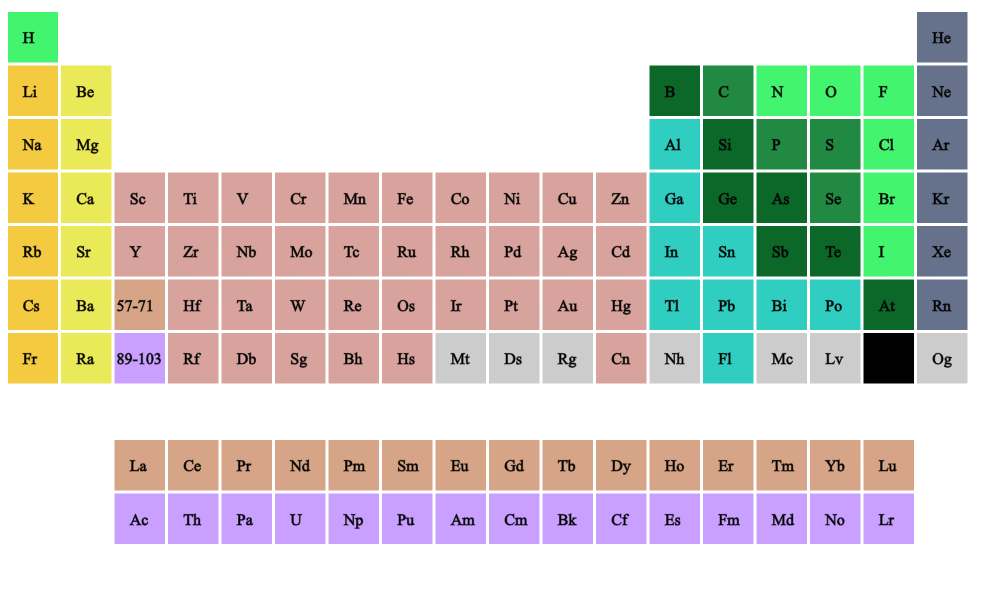
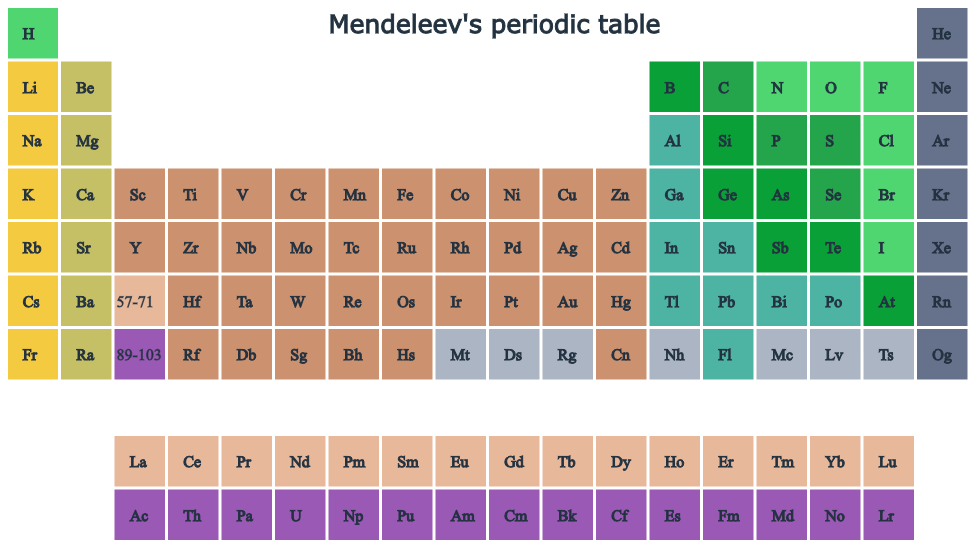
periodic table update

diff --git a/periodic-table/index.html b/periodic-table/index.html
@@ -1,7 +1,8 @@
 <!DOCTYPE html>
 <html>
 <head>
-	<title></title>
+	<title>Periodic table</title>
+  <meta charset="utf-8">
 	<style type="text/css">
 
 		body{
@@ -77,13 +78,15 @@
 
 .modal-body {
   background: #ECEFF1;
-  padding: 60px 40px;
+  padding: 40px 40px;
 }
 
 /* Close Button */
 .close-modal {
-  text-align: right;
   cursor: pointer;
+  display: inline-block;
+  float: right;
+  padding: 5px;
 }
 
 /* Animation */
@@ -108,7 +111,22 @@
     opacity: 1;
   }
 }
+.summary{
+  font-family: Helvetica Neue, Helvetica, Arial, sans-serif;;
+  margin-bottom: 5px;
+}
+.element-name {
+  text-decoration: none;
+}
+.element-name:hover{
+  text-decoration: underline;
+  }
+  .label{
+    font-weight: bold;
+  }
 	</style>
+
+
 </head>
 <body>
 	<div class="tableContainer">
@@ -123,7 +141,29 @@
       <h1></h1>
     </div>
     <div class="modal-body">
-      
+        <div class="summary">
+          <a class="element-name" target="_blank"></a>
+          <span class="summary-body"></span>
+        </div>
+        <div>
+          <label class="label">Atomic number: </label><span class="number"></span>
+        </div>
+        <div>
+          <label class="label">Atomic mass: </label><span class="mass"></span>
+        </div>
+        <div>
+          <label class="label">Element category: </label><span class="category"></span>
+        </div>
+        
+        <div>
+          <label class="label">Phase: </label><span class="phase"></span>
+        </div>
+        <div>
+          <label class="label">Density: </label><span class="density"></span>
+        </div>
+        <div>
+          <label class="label">Discovered by: </label><span class="discovered_by"></span>
+        </div>
     </div>
   </div>
 </div>
@@ -150,14 +190,14 @@
                   "polyatomic nonmetal": "#24a54c",
                   "post-transition metal": "#4DB3A2",
                   "transition metal": "#cc916e", 
-                  "lanthanide": "#efcdb8",
+                  "lanthanide": "#e8b89b",
                   "actinide":"#9B59B6",
                   "unknown, probably transition metal": "#ACB5C3",
                   "unknown, probably post transition metal": "#ACB5C3",
                   "unknown, probably metalloid": "#ACB5C3",
                   "unknown, predicted to be noble gas": "#66728c"
      };
-
+     var textColor = "#22313F";
 var getPositionX = function(xpos){
   var x = (xpos - 1) * (elementWidth + columnMargin);
   return x;
@@ -191,6 +231,28 @@ d3.json(dataUrl, function(error, json) {
           modal.select(".modal-header").style("background-color", colors[d["category"]]).select("h1")
                 .text(d["symbol"]);
 
+          var body = modal.select(".modal-body");
+          var indexOfHari = d.summary.indexOf(" ");
+          var firstWordOfSummary = d.summary.substr(0, indexOfHari);
+
+          var summary = body.select("div.summary")
+
+          summary.select("a.element-name")
+                 .attr("href", d.source)
+                 .style("color", colors[d["category"]])
+                 .style("font-weight", "bold")
+                 .text(firstWordOfSummary);
+
+          summary.select("span.summary-body").text(d.summary.substr(indexOfHari + 1, d.summary.length));
+
+          body.select("span.mass").text(d.atomic_mass);
+          body.selectAll(".label").style("color", colors[d["category"]]);
+
+          body.select("span.category").text(d.category);
+          body.select("span.discovered_by").text(d.discovered_by);
+          body.select("span.number").text(d.number);
+          body.select("span.phase").text(d.phase);
+          body.select("span.density").text(d.density + " g/cm^3");
           modal.style("display", "block");
 
        });
@@ -202,7 +264,13 @@ d3.json(dataUrl, function(error, json) {
     .text(d => {return d["symbol"];})
     .attr("x", d => {return getPositionX(d["xpos"]) + elementWidth / 2 - 10;})
     .attr("y", d => {return getPositionY(d["ypos"]) + elementHeight / 2 + 6;})
-    .attr({"fill": "black", "stroke": "black", "stroke-width": 0.5});
+    .attr({"fill": textColor, "stroke": textColor, "stroke-width": 1});
+
+    table.append("text")
+         .attr("x", getPositionX(7))
+         .attr("y", getPositionY(1) + 25)
+         .attr({"fill": textColor, "stroke": textColor, "stroke-width": 1, "font-family": "Verdana", "font-size": "25"})
+         .text("Mendeleev's periodic table");
 
     table.append("rect")
         .attr("width", elementWidth)
@@ -222,13 +290,14 @@ d3.json(dataUrl, function(error, json) {
     .text("57-71")
     .attr("x", d => {return getPositionX(3) + 2;})
     .attr("y", d => {return getPositionY(6) + elementHeight / 2 + 6;})
-    .attr({"fill": "black", "stroke": "black", "stroke-width": 0.5});
+    .attr({"fill": textColor, "stroke": textColor, "stroke-width": 0.5});
 
     table.append("text")
       .text("89-103")
       .attr("x", d => {return getPositionX(3) + 2;})
       .attr("y", d => {return getPositionY(7) + elementHeight / 2 + 6;})
-      .attr({"fill": "black", "stroke": "black", "stroke-width": 0.5});
+      .attr({"fill": textColor, "stroke": textColor, "stroke-width": 0.5});
+
 
 
     d3.select(".close-modal")

diff --git a/index.html b/index.html
@@ -74,7 +74,7 @@
 		}
 	</style>
 </head>
-<body>
+<body onload="draw()">
 <div class="container-fluid">
 	<div class="container" id="container">
 			<h3 class="text-center mainHeader">My d3.js stuff</h3>
@@ -106,8 +106,7 @@
 				url: "https://giorgi-ghviniashvili.github.io/D3/periodic-table/",
 				imgUrl: "periodic-table/image.png",
 				alt: "periodic table"
-			},
-			{
+			},{
 				url: "https://giorgi-ghviniashvili.github.io/D3/bar-chart/",
 				imgUrl: "bar-chart/image.png",
 				alt: "barChar"
@@ -122,26 +121,28 @@
 			}
 		];
 
-	var counter = 0;
-	var rowCount = 0;
-	var container = document.getElementById("container");
-	data.forEach(d => {
-		// <div class="row pt-4 row-no-padding" id="row">
-		var div;
-		if (counter % 3 == 0) {
-			rowCount++;
-			var div = document.createElement("div");
-			div.setAttribute("class", "row pt-4 row-no-padding");
-			div.setAttribute("id", "row" + rowCount);
-		}
-		else {
-			var div = document.getElementById("row" + rowCount);
-		}
+	function draw(){
+		var counter = 0;
+		var rowCount = 0;
+		var container = document.getElementById("container");
+		data.forEach(d => {
+			// <div class="row pt-4 row-no-padding" id="row">
+			var div;
+			if (counter % 3 == 0) {
+				rowCount++;
+				var div = document.createElement("div");
+				div.setAttribute("class", "row pt-4 row-no-padding");
+				div.setAttribute("id", "row" + rowCount);
+			}
+			else {
+				var div = document.getElementById("row" + rowCount);
+			}
 
-		div.appendChild(getDiv(d));
-		container.appendChild(div);
-		counter++;
-	});
+			div.appendChild(getDiv(d));
+			container.appendChild(div);
+			counter++;
+		});
+    }
 </script>
 </body>
 </html>

diff --git a/README.md b/README.md
@@ -1,2 +1,4 @@
 # D3
 work done by me using d3.js
+
+https://giorgi-ghviniashvili.github.io/D3
